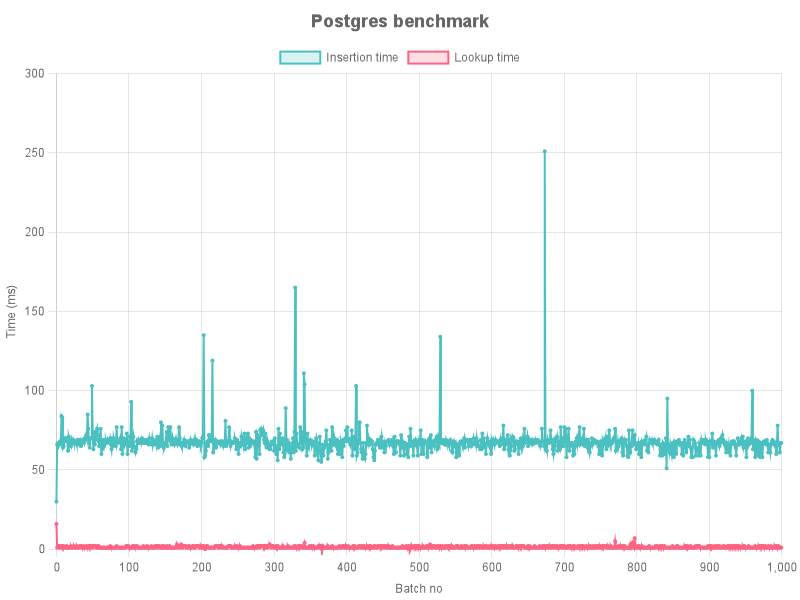
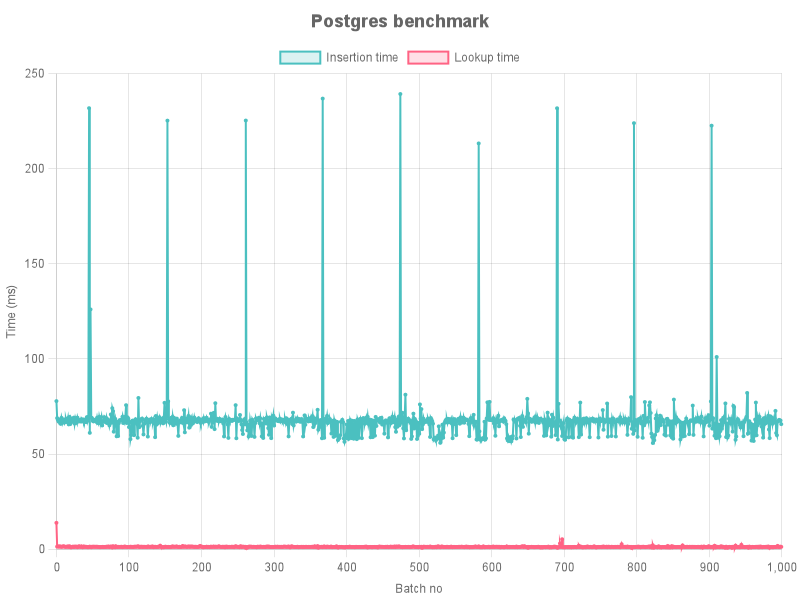
WIP

diff --git a/ch3/redis.ts b/ch3/redis.ts
@@ -1,44 +1,48 @@
 import Redis from "ioredis";
 import { keyValueGen } from "./value-gen";
-import { MeasurementResults, measurementParameters } from "./measurement";
-
-const redis = new Redis(6666, "localhost", {});
+import { measurementParameters, MeasurementResults } from "./Measurement";
 
 export async function benchmarkRedis(): Promise<MeasurementResults> {
   const insertionTimesMs: number[] = [];
   const lookupTimesMs: number[] = [];
 
-  const start = Date.now();
+  const redis = new Redis({
+    port: 6666,
+    host: "localhost",
+    lazyConnect: false
+  });
+
+  const totalStart = process.hrtime.bigint();
   const gen = keyValueGen(measurementParameters.total);
+
   try {
     for (let batch = 0; batch < measurementParameters.total / measurementParameters.batchSize; ++batch) {
       const pipeline = redis.pipeline();
-      let firstKey = null;
+      let firstKey: string | null = null;
 
       for (let i = 0; i < measurementParameters.batchSize; ++i) {
         const [key, value] = gen.next().value;
         if (firstKey === null) firstKey = key;
         pipeline.set(key, value);
       }
-      const startInsert = Date.now();
-      await pipeline.exec();
-      insertionTimesMs.push(Date.now() - startInsert);
 
-      const startLookup = Date.now();
-      // await redis.get(firstKey!);
-      lookupTimesMs.push(Date.now() - startLookup);
+      const insertStart = process.hrtime.bigint();
+      await pipeline.exec();
+      insertionTimesMs.push(Number(process.hrtime.bigint() - insertStart) / 1e6);
+
+      const lookupStart = process.hrtime.bigint();
+      await redis.get(firstKey!);
+      lookupTimesMs.push(Number(process.hrtime.bigint() - lookupStart) / 1e6);
     }
   } finally {
-    // redis.quit();
+    await redis.quit();           // graceful shutdown
   }
 
-  const elapsed = Date.now() - start;
+  const totalElapsedMs = Number(process.hrtime.bigint() - totalStart) / 1e6;
 
   return {
     insertionTimesMs,
     lookupTimesMs,
-    totalTimeMs: elapsed
-  }
+    totalTimeMs: totalElapsedMs
+  };
 }
-
-benchmarkRedis();

diff --git a/ch3/postgres.ts b/ch3/postgres.ts
@@ -9,7 +9,7 @@ export async function benchmarkPostgres(): Promise<MeasurementResults> {
   const lookupTimesMs: number[] = [];
   await pg.connect();
   await pg.query("DROP TABLE IF EXISTS kv; CREATE TABLE kv(key text primary key, value text)");
-  const start = Date.now();
+  const start = process.hrtime.bigint();
   const gen = keyValueGen(measurementParameters.total);
 
   for (let batch = 0; batch < measurementParameters.total / measurementParameters.batchSize; ++batch) {
@@ -18,16 +18,16 @@ export async function benchmarkPostgres(): Promise<MeasurementResults> {
     const placeholders = pairs.map((_, i) => `($${2 * i + 1}, $${2 * i + 2})`).join(",");
     const params = pairs.flat();
 
-    const startInsert = Date.now();
+    const startInsert = process.hrtime.bigint();
     await pg.query(`INSERT INTO kv (key, value) VALUES ${placeholders}`, params);
-    insertionTimesMs.push(Date.now() - startInsert);
+    insertionTimesMs.push(Number(process.hrtime.bigint() - startInsert) / 1e6);
 
-    const startLookup = Date.now();
+    const startLookup = process.hrtime.bigint();
     await pg.query(`SELECT key, value FROM kv WHERE key = $1`, [pairs[0][0]]);
-    lookupTimesMs.push(Date.now() - startLookup);
+    lookupTimesMs.push(Number(process.hrtime.bigint() - startLookup) / 1e6);
   }
 
-  const elapsed = Date.now() - start;
+  const elapsed = Number(process.hrtime.bigint() - start) / 1e6;
   console.log(`Postgres: Inserted ${measurementParameters.total} keys in ${elapsed} ms`);
   await pg.end();
 

diff --git a/ch3/index.ts b/ch3/index.ts
@@ -5,8 +5,7 @@ import { benchmarkRedis } from "./redis";
 async function main() {
     const xValues = [...Array(1000).keys()];
 
-    /* const resultsPostgres = await benchmarkPostgres();
-
+    const resultsPostgres = await benchmarkPostgres();
 
     console.log(`Postgres benchmark finished, total time ${resultsPostgres.totalTimeMs} ms`);
 
@@ -18,10 +17,10 @@ async function main() {
         yAxisLabel: 'Time (ms)',
         outputPath: './charts/postgres.png'
     });
- */
+
     const resultsRedis = await benchmarkRedis();
 
-        console.log(`Redis benchmark finished, total time ${resultsRedis.totalTimeMs} ms`);
+    console.log(`Redis benchmark finished, total time ${resultsRedis.totalTimeMs} ms`);
 
     await generateTwoLineChart(xValues, resultsRedis.insertionTimesMs, xValues, resultsRedis.lookupTimesMs, {
         label1: 'Insertion time',
@@ -31,8 +30,6 @@ async function main() {
         yAxisLabel: 'Time (ms)',
         outputPath: './charts/redis.png'
     });
-
-
 }
 
 main();

diff --git a/ch3/Measurement.ts b/ch3/Measurement.ts
@@ -1,6 +1,6 @@
 export const measurementParameters = {
-  batchSize: 1000/100,
-  total: 1_000_000/100
+  batchSize: 1000,
+  total: 1_000_000
 }
 
 export type MeasurementResults = {
